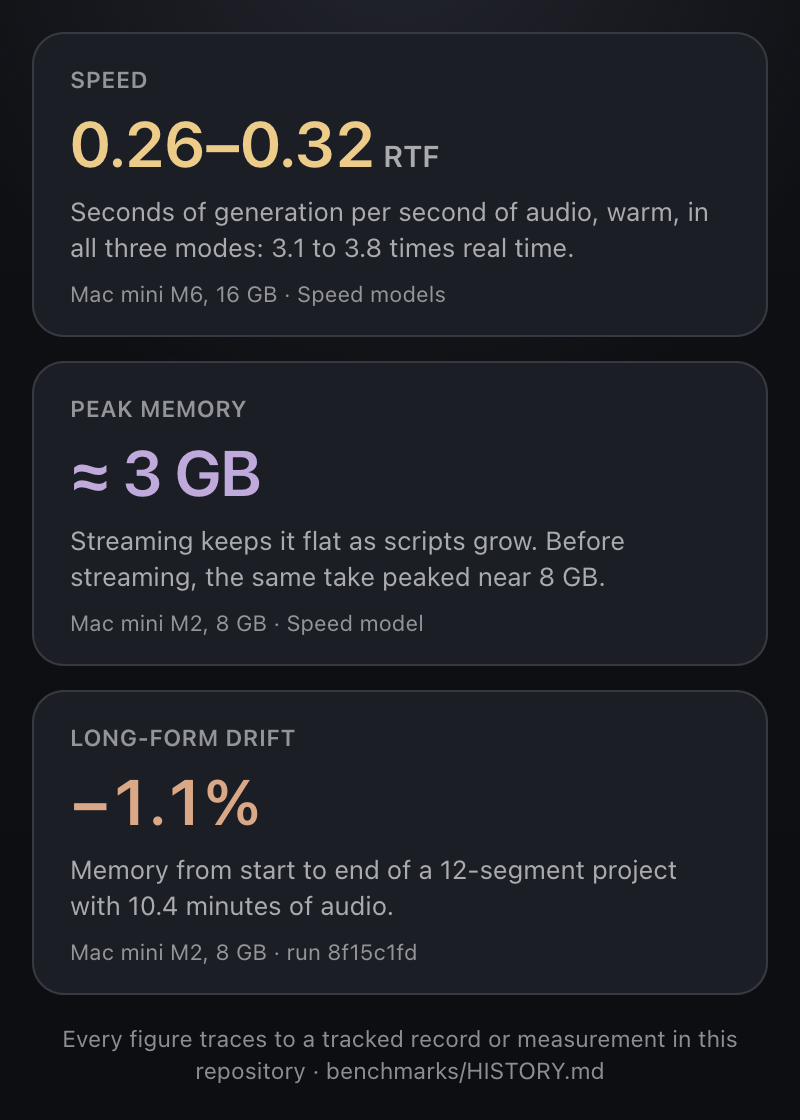
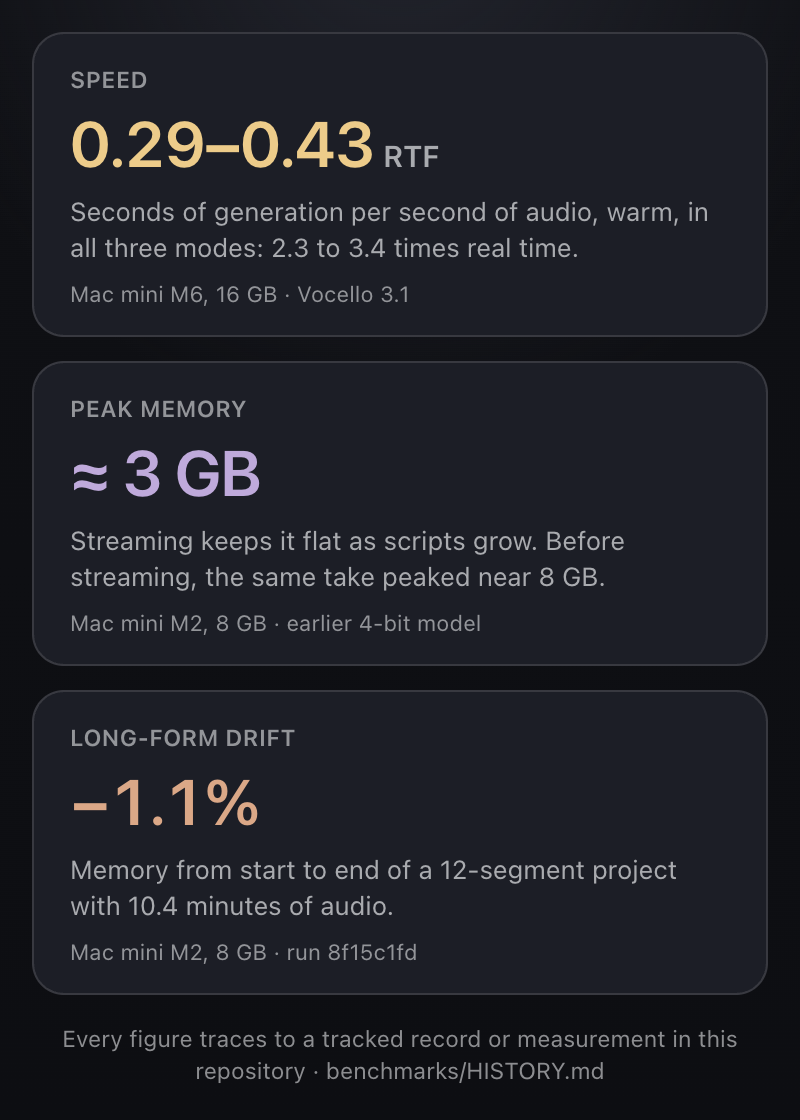
docs: the README charts and performance figures come from the 3.1 canonical record (RF-61)
generate_readme_charts.py now anchors on macos-xcui-benchmark-20261115-233746-ecd24c7b (Vocello 3.1.0 build 31 on the Mac mini M6, a pool of one). Warm medians, short, medium, long: Built-in Voice 0.36, 0.31, 0.30; Voice Design 0.35, 0.31, 0.29; Voice Cloning 0.43, 0.33, 0.30. The README's performance captions, alt text and measurement note say so, say the build was compiled with Xcode 27.2, and say the memory figures predate 3.1.

The performance art is re-rendered with headless Chrome at render.sh's flags (0.29 to 0.43, 2.3 to 3.4 times real time). The chart's subtitle drops the word models when it would run past the chart's width.

diff --git a/scripts/readme_art/performance-narrow.html b/scripts/readme_art/performance-narrow.html
@@ -17,9 +17,9 @@
   <div class="col">
     <div class="tile">
       <div class="k">SPEED</div>
-      <div class="v custom">0.26–0.32<small>RTF</small></div>
-      <div class="d">Seconds of generation per second of audio, warm, in all three modes: 3.1 to 3.8 times real time.</div>
-      <div class="src">Mac mini M6, 16 GB · Vocello 3.1 models</div>
+      <div class="v custom">0.29–0.43<small>RTF</small></div>
+      <div class="d">Seconds of generation per second of audio, warm, in all three modes: 2.3 to 3.4 times real time.</div>
+      <div class="src">Mac mini M6, 16 GB · Vocello 3.1</div>
     </div>
     <div class="tile">
       <div class="k">PEAK MEMORY</div>

diff --git a/scripts/readme_art/performance.html b/scripts/readme_art/performance.html
@@ -16,9 +16,9 @@
   <div class="row">
     <div class="tile">
       <div class="k">SPEED</div>
-      <div class="v custom">0.26–0.32<small>RTF</small></div>
-      <div class="d">Seconds of generation per second of audio, warm, in all three modes: 3.1 to 3.8 times real time.</div>
-      <div class="src">Mac mini M6, 16 GB · Vocello 3.1 models</div>
+      <div class="v custom">0.29–0.43<small>RTF</small></div>
+      <div class="d">Seconds of generation per second of audio, warm, in all three modes: 2.3 to 3.4 times real time.</div>
+      <div class="src">Mac mini M6, 16 GB · Vocello 3.1</div>
     </div>
     <div class="tile">
       <div class="k">PEAK MEMORY</div>

diff --git a/scripts/generate_readme_charts.py b/scripts/generate_readme_charts.py
@@ -101,6 +101,10 @@ VARIANT_LABELS = {
 # repository, not its variant, tells it from the 3.0 Speed package; public copy
 # names it by the release that ships it and never calls it "Speed".
 SINGLE_MODEL_REPOSITORY_SUFFIX = "-hybrid-attn"
+# The RTF chart's subtitle fills its 720 px at 12 px type: this is the longest one drawn that
+# fits ("... Mac mini M6, 16 GB · Speed models"). A longer one names its models without the
+# word "models" ("... · Vocello 3.1"); the README alt text always carries the full name.
+SUBTITLE_MAX_CHARS = 118
 LENGTHS = ("short", "medium", "long")
 
 # Palette validated with the dataviz six-checks validator against each
@@ -345,10 +349,11 @@ def rtf_chart(theme_name: str) -> str:
     parts = svg_open(width, height)
     parts.append(text(16, 28, "Faster than playback in every mode", fill=theme["ink"], size=16, weight="600"))
     hardware = hardware_label(load_record(anchor))
-    models = pool_model_label(pool)
-    parts.append(text(16, 47, "Warm real-time factor: seconds of generation per second of audio "
-                              f"(lower is faster) · {hardware} · {models}",
-                      fill=theme["muted"], size=12))
+    subtitle = ("Warm real-time factor: seconds of generation per second of audio "
+                f"(lower is faster) · {hardware} · {pool_model_label(pool)}")
+    if len(subtitle) > SUBTITLE_MAX_CHARS:
+        subtitle = subtitle.removesuffix(" models")
+    parts.append(text(16, 47, subtitle, fill=theme["muted"], size=12))
 
     bar_h, in_gap, group_gap = 16.0, 6.0, 26.0
     y = top + 14.0

diff --git a/scripts/tests/test_generate_readme_charts.py b/scripts/tests/test_generate_readme_charts.py
@@ -6,6 +6,7 @@ import contextlib
 import importlib.util
 import io
 import json
+import re
 import tempfile
 import unittest
 from pathlib import Path
@@ -192,8 +193,14 @@ class ChartPoolTests(unittest.TestCase):
     def test_the_label_names_the_models_the_pool_ran(self) -> None:
         """audit #17: the chart never publishes numbers under a hardware-only label."""
         self.assertEqual(MODULE.pool_model_label(self.pool(), self.records), "Speed models")
-        anchor = MODULE.chart_pool()
-        self.assertIn(f"· {MODULE.pool_model_label(anchor)}<", MODULE.render_all()["rtf-by-mode-dark.svg"])
+        # The drawn subtitle names the committed pool's models, without "models" when it would
+        # run past the chart's width.
+        drawn = MODULE.pool_model_label(MODULE.chart_pool()).removesuffix(" models")
+        subtitle = re.search(r"<text[^>]*>(Warm real-time factor[^<]*)</text>",
+                             MODULE.render_all()["rtf-by-mode-dark.svg"])
+        assert subtitle is not None
+        self.assertRegex(subtitle.group(1), rf"· {re.escape(drawn)}(?: models)?$")
+        self.assertLessEqual(len(subtitle.group(1)), MODULE.SUBTITLE_MAX_CHARS)
         self.assertIn("of the Speed models", MODULE.readme_alt_text(
             {f"{mode}/{length}/warm": 0.5 for mode in MODULE.MODES for length in MODULE.LENGTHS}, "Speed models",
         ))

diff --git a/README.md b/README.md
@@ -28,7 +28,7 @@ Vocello is a voice studio for your Mac and iPhone. Write a script, pick one of n
 </tr>
 <tr>
 <td valign="top"><img src="docs/readme/icons/fast.svg" width="40" height="40" alt=""></td>
-<td><b>Fast.</b> On a Mac mini M6 with the Speed models, a minute of speech generates in under 20 seconds once the model is loaded, and long scripts start playing while the rest is still being made.</td>
+<td><b>Fast.</b> On a Mac mini M6, a minute of speech generates in under 20 seconds once the model is loaded, and long scripts start playing while the rest is still being made.</td>
 </tr>
 <tr>
 <td valign="top"><img src="docs/readme/icons/native.svg" width="40" height="40" alt=""></td>
@@ -59,10 +59,10 @@ Vocello is a voice studio for your Mac and iPhone. Write a script, pick one of n
 
 <picture>
   <source media="(max-width: 700px)" srcset="docs/readme/performance-narrow.png">
-  <img src="docs/readme/performance.png" width="100%" alt="Speed: a real-time factor of 0.26 to 0.32, warm, in all three modes on a Mac mini M6 with 16 GB and the Speed models, which is 3.1 to 3.8 times real time. Peak memory: about 3 GB, flat as scripts grow, against about 8 GB before streaming, on an 8 GB Mac mini M2. Long-form drift: memory ended 1.1 percent below its start across a 12-segment project with 10.4 minutes of audio, on the same M2.">
+  <img src="docs/readme/performance.png" width="100%" alt="Speed: a real-time factor of 0.29 to 0.43, warm, in all three modes on a Mac mini M6 with 16 GB and the Vocello 3.1 models, which is 2.3 to 3.4 times real time. Peak memory: about 3 GB, flat as scripts grow, against about 8 GB before streaming, on an 8 GB Mac mini M2 with an earlier 4-bit model. Long-form drift: memory ended 1.1 percent below its start across a 12-segment project with 10.4 minutes of audio, on the same M2.">
 </picture>
 
-The speed figures come from a Vocello 3.0 development build on the benchmark Mac. [Performance, measured](#performance-measured) shows them by mode and explains how they were taken.
+The speed figures come from a Vocello 3.1.0 build on the benchmark Mac; the memory figures were measured earlier, on an 8 GB Mac mini M2. [Performance, measured](#performance-measured) shows them by mode and explains how they were taken.
 
 ## Get Vocello
 
@@ -164,12 +164,12 @@ One engine serves the Mac app, the iPhone app and the `vocello` command line. Ev
 
 ### Performance, measured
 
-Warm real-time factor (seconds of generation per second of audio, lower is faster) by mode and script length on the Mac mini M6 (16 GB), pooled from the most recent canonical records of one build (record `74f026be`, a Vocello 3.0 development build measured on October 7, 2026, before the release's newer MLX, full-precision sampling and whole-script reading):
+Warm real-time factor (seconds of generation per second of audio, lower is faster) by mode and script length on the Mac mini M6 (16 GB), pooled from the most recent canonical records of one build (today one record, `ecd24c7b`: Vocello 3.1.0 build 31, measured on November 15, 2026):
 
 <!-- rtf-chart:start (generated by scripts/generate_readme_charts.py) -->
 <picture>
   <source media="(prefers-color-scheme: dark)" srcset="docs/charts/rtf-by-mode-dark.svg">
-  <img alt="Grouped bar chart: warm real-time factor of the Speed models by script length, lower is faster: Built-in Voice 0.27 to 0.31, Voice Design 0.26 to 0.31, Voice Cloning 0.27 to 0.32. Every bar sits below the real-time line at 1.0." src="docs/charts/rtf-by-mode-light.svg">
+  <img alt="Grouped bar chart: warm real-time factor of the Vocello 3.1 models by script length, lower is faster: Built-in Voice 0.30 to 0.36, Voice Design 0.29 to 0.35, Voice Cloning 0.30 to 0.43. Every bar sits below the real-time line at 1.0." src="docs/charts/rtf-by-mode-light.svg">
 </picture>
 <!-- rtf-chart:end -->
 
@@ -178,7 +178,7 @@ Warm real-time factor (seconds of generation per second of audio, lower is faste
 
 <br>
 
-The speed figures pool warm takes of the Speed models from the canonical benchmark host. No benchmark record of the released 3.0.0 is published yet, so they are not a measurement of 3.0.0 itself. The 8 GB Mac mini M2 is the support floor: its records (the last canonical one, `379db820`, measured warm RTF 0.53 to 0.82) form an earlier series that is never compared with the M6's. The memory figures come from that M2: streaming took the peak of the same take from about 8 GB to about 3 GB (`benchmarks/OPTIMIZATION.md` §F.1), and a 12-segment long-form project (smoke run `8f15c1fd`) ended 1.1% below its starting footprint. The charts regenerate from the named records with `scripts/generate_readme_charts.py`.
+The speed figures are the medians of that record's warm takes on the canonical benchmark host, with the one model each mode has in 3.1. The build was compiled there with Xcode 27.2, and the released app is compiled with Xcode 26.6, so the release's own numbers may differ slightly. The 8 GB Mac mini M2 is the support floor: its records (the last canonical one, `379db820`, measured warm RTF 0.53 to 0.82 on a Vocello 3.0 development build) form an earlier series that is never compared with the M6's. The memory figures come from that M2: streaming took the peak of the same take from about 8 GB to about 3 GB (`benchmarks/OPTIMIZATION.md` §F.1), and a 12-segment long-form project (smoke run `8f15c1fd`) ended 1.1% below its starting footprint. Both predate 3.1 and were taken with the 4-bit model of the time. The charts regenerate from the named records with `scripts/generate_readme_charts.py`.
 
 → [Benchmark history](benchmarks/HISTORY.md) · [Benchmarking method](docs/reference/telemetry-and-benchmarking.md)
 
